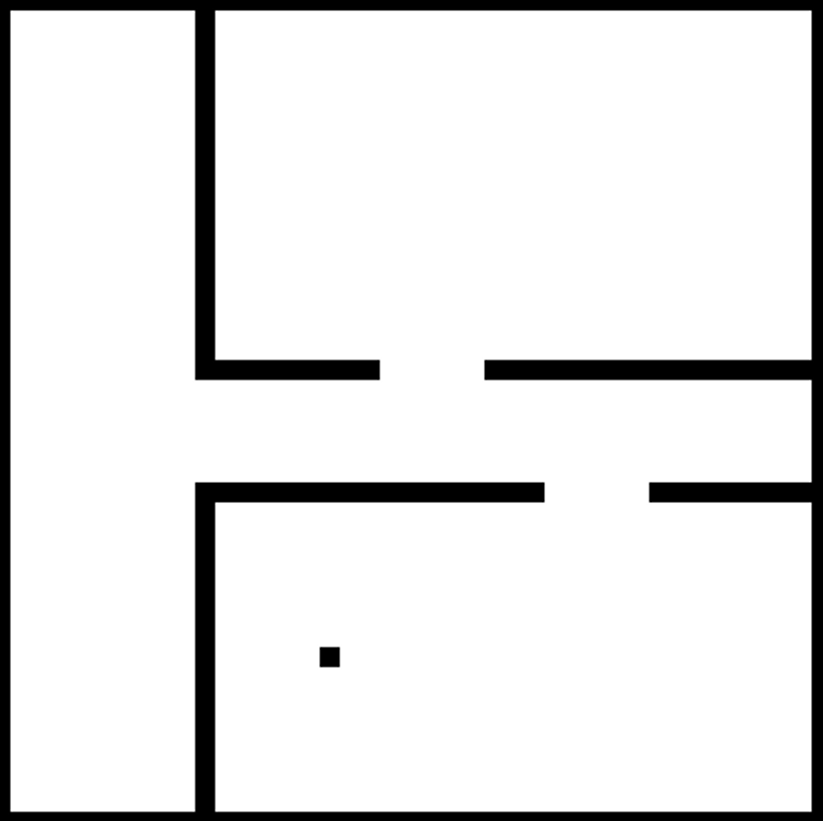
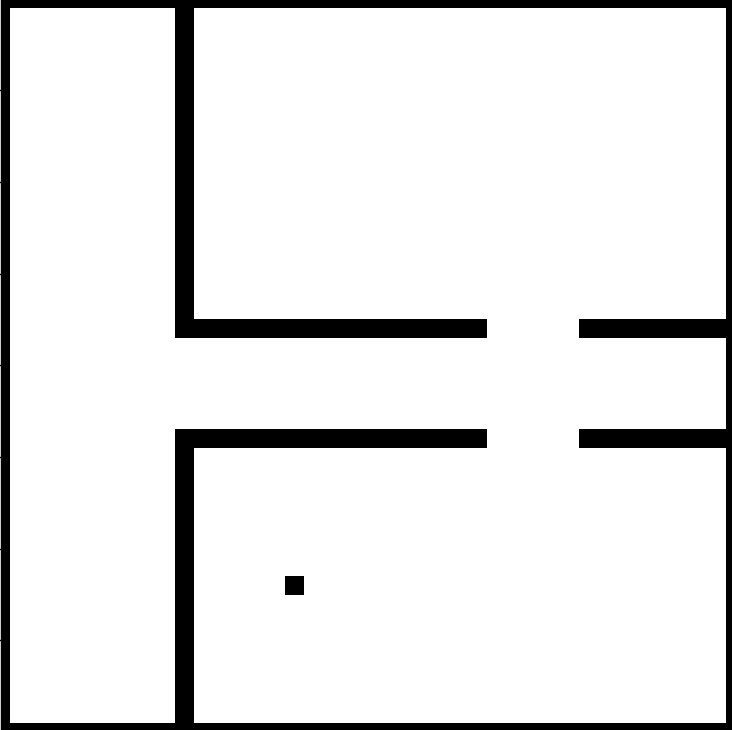
Final changes

diff --git a/hospital_1.py b/hospital_1.py
@@ -6,40 +6,51 @@ from cv2 import circle
 
 from RVO import RVO_update, reach, compute_V_des, reach
 from vis import visualize_traj_dynamic
-from map_creator import obstacles_adder,removing_old_dynamic_obs,update_dynamic_obs
+from map_creator import obstacles_adder,removing_old_dynamic_obs,update_dynamic_obs,pathway,updated_goals,start_goal_dis
 from map_generator import global_path_generator
 #--------------------------------------------------------
 #Hospital map 1
 lines_borders=[  [[0,0],[0,20]], [[0,20],[20,20]],  [[20,20],[20,0]],  [[0,0],[20,0]] ]
 lines_room1=[  [[5,0],[5,8.75]], [[5,8.75],[13.5,8.75]], [[16.5,8.75],[20,8.75]] ]
-lines_room2=[  [[5,20],[5,11.25]],  [[5,11.25],[9.5,11.25]],  [[12.5,11.25],[20,11.25]]  ]
+lines_room2=[  [[5,20],[5,11.25]],  [[5,11.25],[13.5,11.25]],  [[16.5,11.25],[20,11.25]]  ]
 all_lines=lines_borders+lines_room1+lines_room2
 
 ws_model = dict()
 ws_model['robot_radius'] = 0.25
 ws_model['circular_obstacles']=obstacles_adder(all_lines,0.5)
-ws_model['dynamic_obs']=[ [[8,4],3,2.5,0.25]]
+ws_model['dynamic_obs']=[ [[1.866,10],2,2.5,0.25],[[17,10],3,2.5,0.25] ]
 ws_model['circular_obstacles'],ws_model['dynamic_obs'],ws_model['dynamic_plotting']=update_dynamic_obs(ws_model['circular_obstacles'],ws_model['dynamic_obs'],0)
 
 
 #------------------------------
 #initialization for robot 
 
-X = [[3,3],[18,18]]
+X = [[1.75,1.75],[1.75,18]]
 # velocity of [vx,vy]
 V = [[0,0] for i in range(len(X))]
 # maximal velocity norm
-V_max = [2.5 for i in range(len(X))]
-goal = [[15,2.5],[7.5,2.5]]
+V_max = [4 for i in range(len(X))]
+goal = [[15,18],[15,1.75]]
 
-start=(40,20)
-goal=(50,200)
-path,scale_x,scale_y=global_path_generator(ws_model,0.5,start,goal)
-print(path)
+reduced_paths=[]
 
-exit
+# for i in range(len(X)):
+
+#     start_i=X[i]
+#     goal_i=goal[i]
+
+#     path,scale_x,scale_y=global_path_generator(ws_model,0.5,start_i,goal_i)
+#     print("len of unmodified path",len(path))
+#     start,goals=pathway(path,5)
+#     print("len of modified path",len(start))
+#     print("path successful")
+#     reduced_paths.append(goals)
+# reduced_paths=(np.array(reduced_paths)*scale_x)
+# print("reducecd_path",reduced_paths)
 
 #------------------------------
+
+
 #simulation setup
 # total simulation time (s)
 total_time = 15
@@ -52,13 +63,35 @@ t = 0
 
 X_list = np.array(X)
 start_step=0 #step for dynamic obstacles
+i_local=0
+
+reduced_paths=[[[2.66,5.3],[3.75,9.33],[8.5,10.66],[14.4,12],[15,14.56],[15,18]], \
+    [[2.66,14.56],[3.75,12],[8.5,10.66],[14.4,9.33],[15,5.6],[15,1.75]]]
+# print("entering while loop")
+path_i=0
+path_j=0
+goal_1=[reduced_paths[0][0]]
+goal_2=[reduced_paths[1][0]]
 while t*step < total_time:
+    distances=start_goal_dis(list(X),list(goal))
+
+
+    if distances[0]<0.1:
+        if path_i<=len(reduced_paths[0]):
+            path_i+=1
+        goal_1=updated_goals(reduced_paths,path_i,0)
+    if distances[0]<0.1:
+        if path_j<=len(reduced_paths[1]):
+            path_j+=1
+        goal_2=updated_goals(reduced_paths,path_j,1)
+    goal=goal_1+goal_2
     
     static_obs_length=len(ws_model['circular_obstacles']) #no of obstacles
+    # print("goals",goal)
     
     # compute desired vel to goal
     V_des = compute_V_des(X, goal, V_max)
-    
+    # print("crossed_computed_v_des")
     #function to update dynamic obstacles
     ws_model['circular_obstacles'],ws_model['dynamic_obs'],ws_model['dynamic_plotting']=update_dynamic_obs(ws_model['circular_obstacles'],ws_model['dynamic_obs'],start_step)
     start_step=step

diff --git a/map_creator.py b/map_creator.py
@@ -18,6 +18,17 @@ def straight_line_creator(start,end,thickness):
 
     return obstacles
 
+def start_goal_dis(current_position,goals):
+    'calculates dis betwenn cur _pos and goal INPUTS = cur pos array, goals array'
+    distances=[]
+    for i in range(len(current_position)):
+        x_start=current_position[i][0]
+        y_start=goals[i][1]
+        x_end=goals[i][0]
+        y_end=goals[i][1]
+        distance=math.sqrt(((x_end-x_start)**2)+((y_end-y_start)**2))
+        distances.append(distance)
+    return distances
 def obstacles_adder(lines,thickness):
     "adds obstacels in the form of lines. Inputs: Lines=[[startx,starty],[endx,endy]] , thickness"
     obstacles=[]
@@ -62,18 +73,36 @@ def update_dynamic_obs(old_model,dynamic_obs,time):
         dynamic_plot.append([cur_x,cur_y,obs_thickness])
         i+=1
     return old_model,dynamic_obs,dynamic_plot
+def pathway(path,horizon):
+    print(len(path))
+    for i in range(len(path)):
+        x = path[i][0]
+        y = path[i][1]
+        path[i][0] = x + 0.5
+        path[i][1] = y + 0.5
+    start   = [path[0]]
+    goal    = [path[horizon]]
+    for i in range(horizon,len(path),horizon):
+        if (i+horizon) < len(path) and i < len(path):
+            start.append(path[i])
+            goal.append(path[i+horizon])
+        else:
+            start.append(goal[-1])
+            goal.append(path[-1])
+    return start, goal
 
-# lines=[[[5,7],[5,6]]]
-# model=obstacles_adder(lines,0.5)
-# d=[   [[0,0],1,0.5,0.5],   [[0,0],4,0.5,0.5]]  
+def updated_goals(paths,iterator,robot_no):
+    "return the next step in a list of path for multiple robots INPPUTS: lists of paths for multiple robots, iterator"
+    next_goals=[]
+    a_path=paths[robot_no]
+    for i in range(len(a_path)):
+        if i==iterator:
+            next_goals.append(a_path[i])
+    return next_goals
 
-# n=len(model)
-# for t in np.arange(0,5,0.25):
 
-#     print(t)
-#     model,d,e=update_dynamic_obs(model,d,0.25)
-#     print(model)
-#     model=removing_old_dynamic_obs(model,n)
-#     print(model)
-#     print("\n")
-# print(model)
+# goals=[   [[1,1],[2,2],[3,3]],  [[1,1],[2,2],[3,3]],  [[1,1],[2,2],[3,3]] ]
+
+# a=updated_goals(goals,1)
+
+# print(a)

diff --git a/vis.py b/vis.py
@@ -52,6 +52,18 @@ def visualize_traj_dynamic(ws_model, X, X_list, U, goal, time = None, name=None)
             alpha=1,
             zorder=2)
         ax.add_patch(robot)
+        
+        circle = matplotlib.patches.Circle(
+            (X[i][0],X[i][1]),
+            radius = 10*ws_model['robot_radius'],
+            facecolor='green',
+            edgecolor='black',
+            linewidth=1.0,
+            fill = False,
+            ls='--',
+            alpha=1,
+            zorder=2)
+        ax.add_patch(circle)
         #----------plot velocity
         ax.arrow(X[i][0], X[i][1], U[i][0], U[i][1], head_width=0.05, head_length=0.1, fc=cmap(i), ec=cmap(i))
         ax.text(X[i][0]-0.1, X[i][1]-0.1, r'$%s$' %i, fontsize=15, fontweight = 'bold',zorder=3)
@@ -72,11 +84,11 @@ def visualize_traj_dynamic(ws_model, X, X_list, U, goal, time = None, name=None)
     ax.set_ylabel(r'$y (m)$')
     ax.grid(False)
     if name:
-        # pyplot.savefig(name, dpi = 200)
-        # pyplot.savefig(name,bbox_inches='tight')
-        pyplot.show()
-    # pyplot.cla()
-    # pyplot.close(figure)
+        pyplot.savefig(name, dpi = 200)
+        pyplot.savefig(name,bbox_inches='tight')
+        # pyplot.show()
+    pyplot.cla()
+    pyplot.close(figure)
     return figure
 
 def get_cmap(N):

diff --git a/map_generator.py b/map_generator.py
@@ -69,10 +69,7 @@ def visualize_static_map(ws_model,name):
     # ax.axis["top"].set_visible(False)
     w = ax.get_xaxis()
     w.set_visible(False)
-    # ax.axes.get_xaxis().set_visible(False)
-    # figure.axes.get_yaxis().set_visible(False)
-    # ax.set_xlabel(r'$x (m)$')
-    # ax.set_ylabel(r'$y (m)$')
+
     ax.grid(False)
 
     pyplot.savefig(name, dpi = 200)
@@ -103,12 +100,19 @@ def global_path_generator(ws_model,map_resolution,start,goal):
     scale_y=20/len(map_array[0])
     print(map_array)
     print("x length",len(map_array))
-    print("x length",len(map_array[0]))
+    print("y length",len(map_array[0]))
+
+    #scaled_start remmember to flip x and y for rows and columns
+    scaled_start = (int(start[1]/scale_y),int(start[0]/scale_x))
+    scaled_goal = (int(goal[1]/scale_y),int(goal[0]/scale_x))
+
+    # scaled_start=(50,50)
+    # scaled_goal=(60,60)
 
     # Planning class
-    RRT_planner = RRT(map_array, start, goal)
+    RRT_planner = RRT(map_array, scaled_start, scaled_goal)
     # path = RRT_planner.RRT(n_pts=2000)
-    path,map_size = RRT_planner.RRT_star(n_pts=1000)
+    path = RRT_planner.RRT_star(n_pts=1000)
     
     return path,scale_x,scale_y
 

diff --git a/RRT_project.py b/RRT_project.py
@@ -174,6 +174,7 @@ class RRT:
         '''
         # Create empty map
         fig, ax = plt.subplots(1)
+        plt.gca().invert_yaxis()
         img = 255 * np.dstack((self.map_array, self.map_array, self.map_array))
         ax.imshow(img)
         print("reached checkpoint 1")
